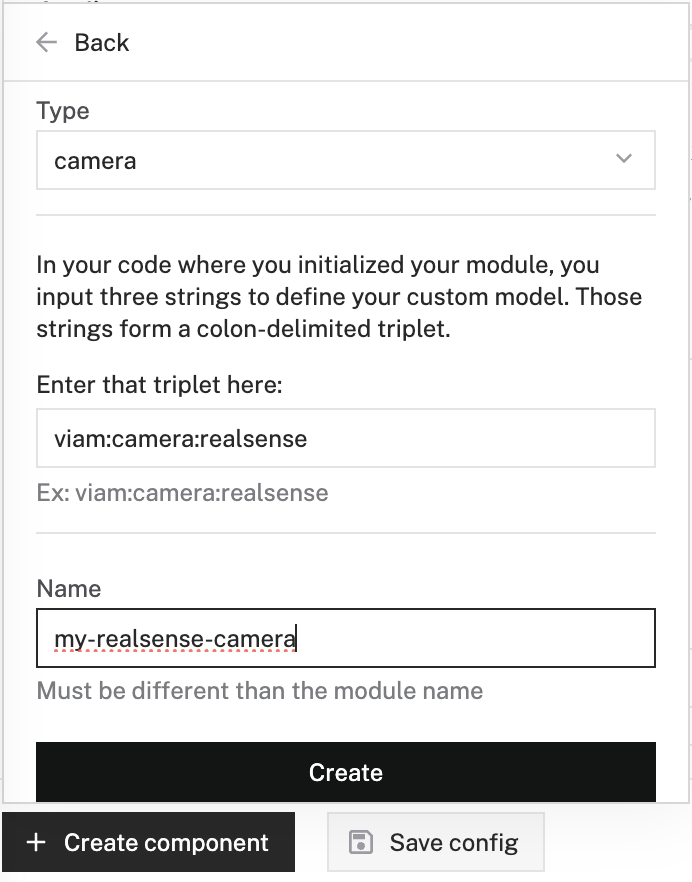
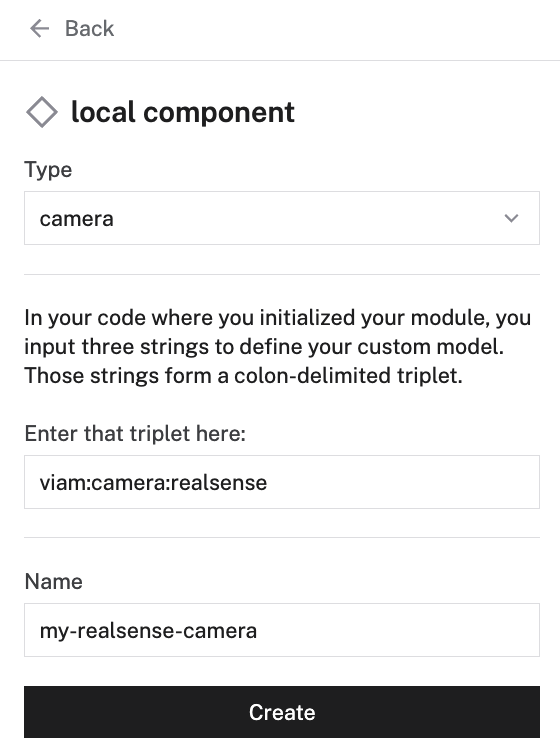
Update local module configuration instructions R2D2

diff --git a/docs/registry/configure.md b/docs/registry/configure.md
@@ -384,28 +384,23 @@ See the instructions to [compile your module into an executable](/registry/creat
 
 To add a local module on your machine, first add its module, then the component or service it implements:
 
-1. Navigate to the **Config** tab of your machine's page in [the Viam app](https://app.viam.com).
-1. Click on the **Modules** subtab.
-1. Scroll to the **Add local module** section.
-1. Enter a **Name** for this instance of your modular resource.
-1. Enter the [module's executable path](/registry/create/#compile-or-package-your-module).
+1. Navigate to the **CONFIGURE** tab of your machine's page in [the Viam app](https://app.viam.com).
+2. Click the **+** icon next to your machine part in the left-hand menu and select **Local module**, then **Local module**.
+3. Enter a **Name** for this instance of your modular resource.
+4. Enter the [module's executable path](/registry/create/#compile-or-package-your-module).
    This path must be the absolute path to the executable on your machine's filesystem.
-1. Then, click the **Add module** button, and click **Save** in the upper right corner to save your config.
+5. Then, click the **Create** button, and click **Save** in the upper right corner to save your config.
 
-   {{<imgproc src="registry/configure/add-local-module-csi-cam.png" resize="600x" declaredimensions=true alt="The add a local module pane with name 'my-csi-ca' and executable path '/usr/local/bin/viam-csi'">}}
+   {{<imgproc src="registry/configure/add-local-module-csi-cam.png" resize="300x" declaredimensions=true alt="The add a local module pane with name 'my-csi-cam' and executable path '/usr/local/bin/viam-csi'">}}
 
    This example shows the configuration for adding a [CSI camera](https://github.com/viamrobotics/csi-camera/) as a local module.
 
-1. Navigate to the **Config** tab of your machine's page on [the Viam app](https://app.viam.com).
+6. Now, stay on the **CONFIGURE** tab of your machine's page on [the Viam app](https://app.viam.com).
 
-   - If you are adding a modular [component](/components/), click the **Components** subtab and click **Create component**.
-   - If you are adding a modular [service](/services/), click the **Services** subtab and click **Create service**.
+   - Click the **+** icon next to your machine part in the left-hand menu and select **Local module**.
+   - Then, select **Local component** or **Local service**.
 
-1. Then, select the `local component` or `local service` type from the list.
-
-   {{<imgproc src="registry/configure/add-local-module-list.png" resize="300x" declaredimensions=true alt="The add a component modal showing the list of components to add with 'local component' shown at the bottom">}}
-
-1. On the next screen:
+7. On the **Create** menu for a **Local component** or **Local service**:
 
    - Select the type of modular resource provided by your module, such as a [camera](/components/camera/), from the dropdown menu.
    - Enter the {{< glossary_tooltip term_id="model-namespace-triplet" text="model namespace triplet">}} of your modular resource's {{< glossary_tooltip term_id="model" text="model" >}}.
@@ -413,19 +408,19 @@ To add a local module on your machine, first add its module, then the component 
    - Enter a name for this instance of your modular resource.
      This name must be different from the module name.
 
-   {{<imgproc src="registry/configure/add-local-module-create.png" resize="400x" declaredimensions=true alt="The add a component modal showing the create a module step for an intel realsense module">}}
+      {{<imgproc src="registry/configure/add-local-module-create.png" resize="250x" declaredimensions=true alt="The add a component modal showing the create a module step for an intel realsense module">}}
 
-1. Click **Create** to create the modular resource provided by the local module.
+8.  Click **Create** to create the modular resource provided by the local module.
 
-Once you've added your local module using steps 1-6, you can repeat steps 7-10 to add as many additional instances of your modular resource as you need.
+Once you've added your local module using steps 1-5, you can repeat steps 6-8 to add as many additional instances of your modular resource as you need.
 
 ### Edit the configuration of a local module
 
-Once you have added a modular resource to your machine, you can view and edit the underlying module from the **Modules** subtab:
+Once you have added a modular resource to your machine, you can view and edit the underlying module.
 
-1. Navigate to the **Config** tab of your machine's page in [the Viam app](https://app.viam.com).
-1. Click on the **Modules** subtab.
-   Local modules you have added to your machine appear under the **Local** section.
+Navigate to the **CONFIGURE** tab of your machine's page in [the Viam app](https://app.viam.com).
+Local modules you have added to your machine are identifiable by name.
+Locate a module's card in the part-resource hierarchy and click on it to expand.
 
 The following properties are available for modules:
 
@@ -436,12 +431,12 @@ The following properties are available for modules:
 `executable_path` | string | **Required**| The absolute path to the executable on your machine's filesystem. |
 `type` | string | **Required**| Either `registry` or `local`. |
 
-Add these properties to your module's configuration:
+Edit these properties in your module's JSON configuration:
 
 {{< tabs >}}
 {{% tab name="Config Builder" %}}
 
-{{<imgproc src="registry/configure/add-local-module-config-builder.png" resize="600x" declaredimensions=true alt="The add a local module pane with an example name and executable path">}}
+{{<imgproc src="registry/configure/edit-local-module.png" resize="600x" declaredimensions=true alt="The edit a local module pane with an example name and executable path">}}
 
 {{% /tab %}}
 {{% tab name="JSON Template" %}}
